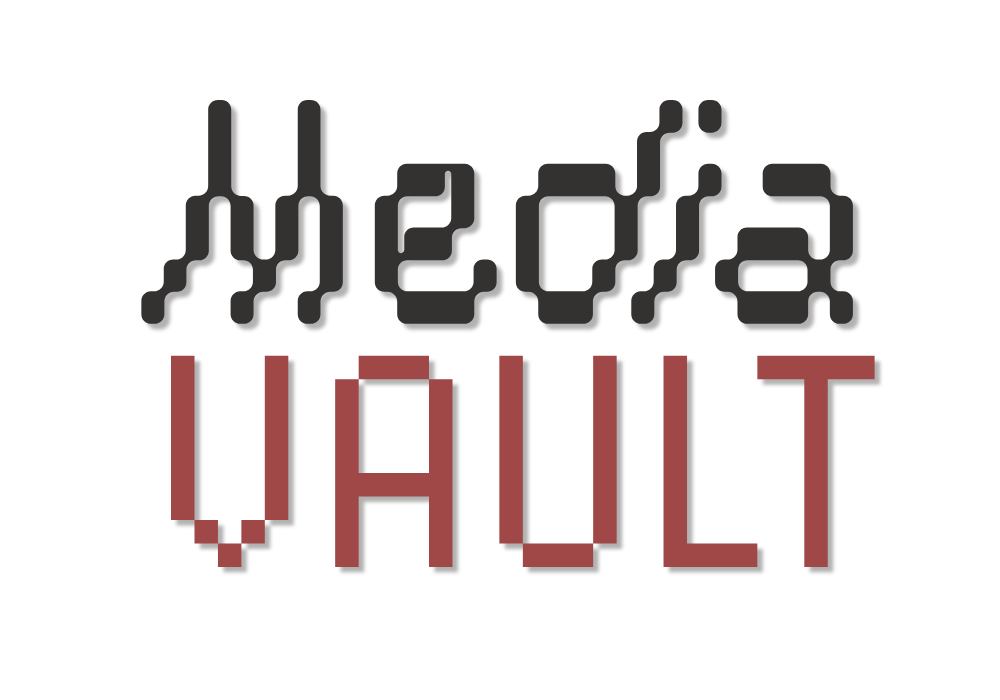
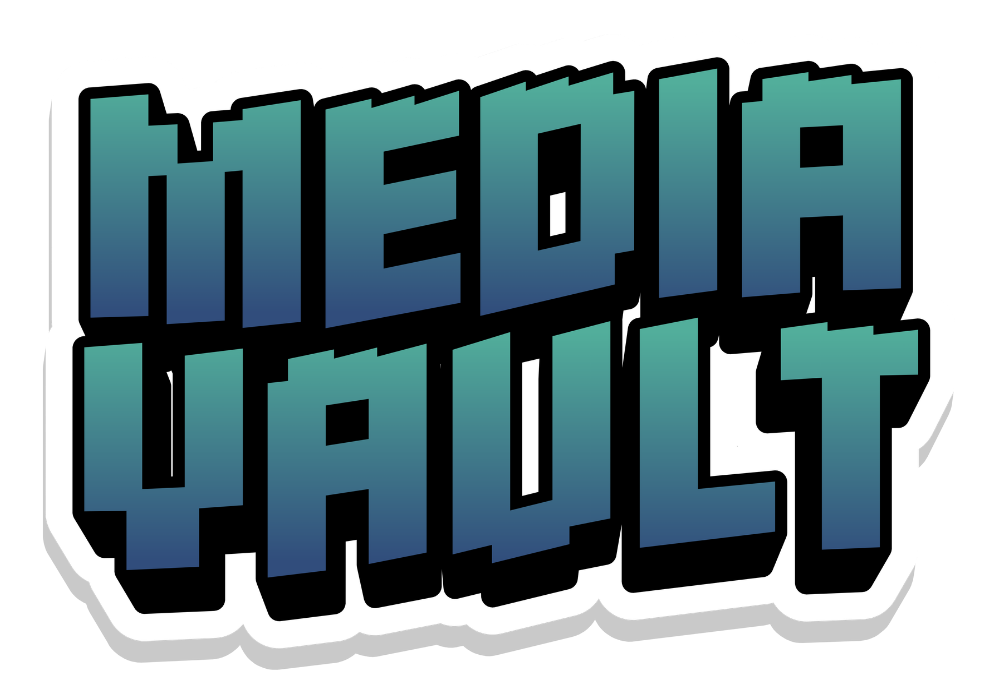
rebuilt the loginView, added fonts/images, better ui

diff --git a/css/style.css b/css/style.css
@@ -1,30 +1,32 @@
 @font-face {
+    font-family: "High Cruiser";
     src: url('highcruiser.otf');
 }
 
-.root {
-    -fx-background-color: #343131;
-    -fx-font-family: "High Cruiser PERSONAL USE ONLY";
+@font-face {
+    font-family: "Pixel 1";
+    src: url('pixel1.TTF');
 }
 
-.button {
-    -fx-font-size: 25px;
-    -fx-background-color: #EEDF7A;
-    -fx-text-fill: #343131;
-    -fx-padding: 8 18;
-}
-.button:hover {
-    -fx-background-color: #D8A25E;
-}
-.button:pressed {
-    -fx-background-color: #D8A25E;
+@font-face {
+    font-family: "Pixel 2";
+    src: url('pixel2.TTF');
 }
 
-.titleContainer {
-    -fx-background-color: #fffbde;
-    -fx-border-color: #D8A25E;
-    -fx-border-width: 10px;
-    -fx-alignment: center;
-    -fx-spacing: -35px;
-    -fx-padding: 10px 10px;
+@font-face {
+    font-family: "Pixel 3";
+    src: url('pixel3.TTF');
+}
+
+@font-face {
+    font-family: "Pixel 4";
+    src: url('pixel4.ttf');
+}
+
+@font-face {
+    src: url('pixelmix.ttf');
+}
+
+@font-face {
+    src: url('pixelmix_bold.ttf');
 }

diff --git a/controller/SceneController.java b/controller/SceneController.java
@@ -5,7 +5,6 @@ import javafx.scene.Parent;
 import javafx.scene.Scene;
 import javafx.stage.Stage;
 import model.Profile;
-import view.loginView;
 
 import java.io.IOException;
 import java.util.List;
@@ -13,26 +12,45 @@ import java.util.List;
 public class SceneController {
     private Stage stage;
     private Scene scene;
-    private Parent root;
     private List<Profile> profiles;
 
     public SceneController(Stage stage, List<Profile> profiles) {
         this.stage = stage;
         this.profiles = profiles;
     }
+
+    // 1. Shows the Scene Builder FXML screen (loginView.fxml)
     public void showLogin() {
-        loginView loginView = new loginView();
-        new loginController(this, loginView, profiles);
-        stage.setScene(loginView.getScene());
+        try {
+            FXMLLoader loader = new FXMLLoader(getClass().getResource("/view/loginView.fxml"));
+            Parent root = loader.load();
+
+            // Connect your login controller if needed
+            loginController controller = loader.getController();
+            if (controller != null) {
+                controller.init(this, profiles);
+            }
+
+            scene = new Scene(root);
+            stage.setScene(scene);
+            stage.show();
+
+        } catch (IOException e) {
+            e.printStackTrace();
+        }
     }
 
+    // 2. Shows the main app screen after logging in (mainView.fxml)
     public void showMainView(Profile profile) {
         try {
             FXMLLoader loader = new FXMLLoader(getClass().getResource("/view/mainView.fxml"));
             Parent root = loader.load();
 
             mainViewController controller = loader.getController();
-            controller.init(profile, stage);
+            if (controller != null) {
+                controller.init(profile, stage);
+            }
+
             scene = new Scene(root);
             stage.setScene(scene);
             stage.show();

diff --git a/MediaVaultApp.java b/MediaVaultApp.java
@@ -23,8 +23,10 @@ public class MediaVaultApp extends Application {
         primaryStage.setMinHeight(500);
 
         primaryStage.setTitle("Media Vault");
-        primaryStage.setWidth(1000);
-        primaryStage.setHeight(700);
+        primaryStage.setWidth(800);
+        primaryStage.setHeight(600);
+        primaryStage.setMaxWidth(800);
+        primaryStage.setMaxHeight(600);
         
         SceneController sceneController = new SceneController(primaryStage, profiles);
         sceneController.showLogin();

diff --git a/controller/loginController.java b/controller/loginController.java
@@ -11,6 +11,11 @@ public class loginController {
     private SceneController sceneController;
     private List<Profile> profiles; // wherever your saved profiles come from
 
+    public void init(SceneController sceneController, List<Profile> profiles) {
+        this.sceneController = sceneController;
+        this.profiles = profiles;
+    }
+
     public loginController(SceneController sceneController, loginView loginView, List<Profile> profiles) {
         this.sceneController = sceneController;
         this.loginView = loginView;